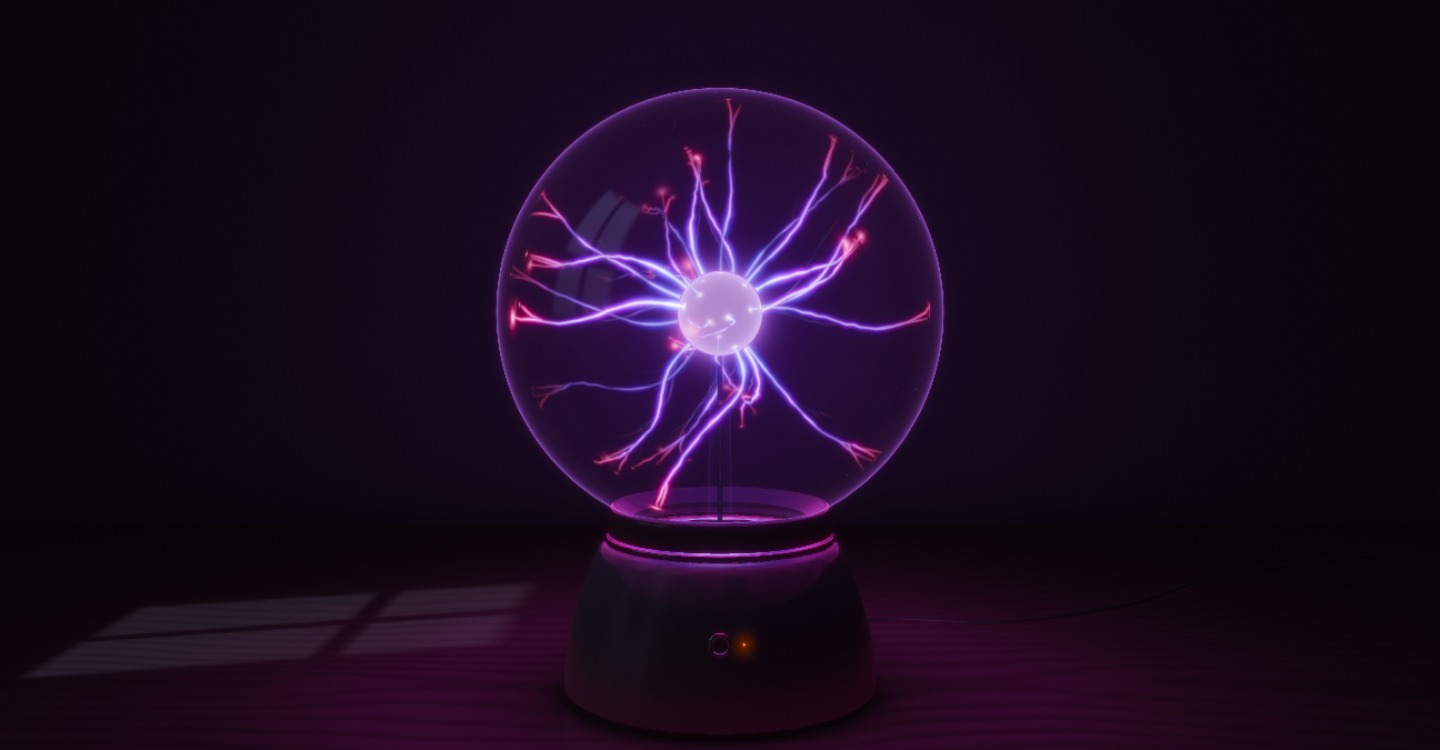
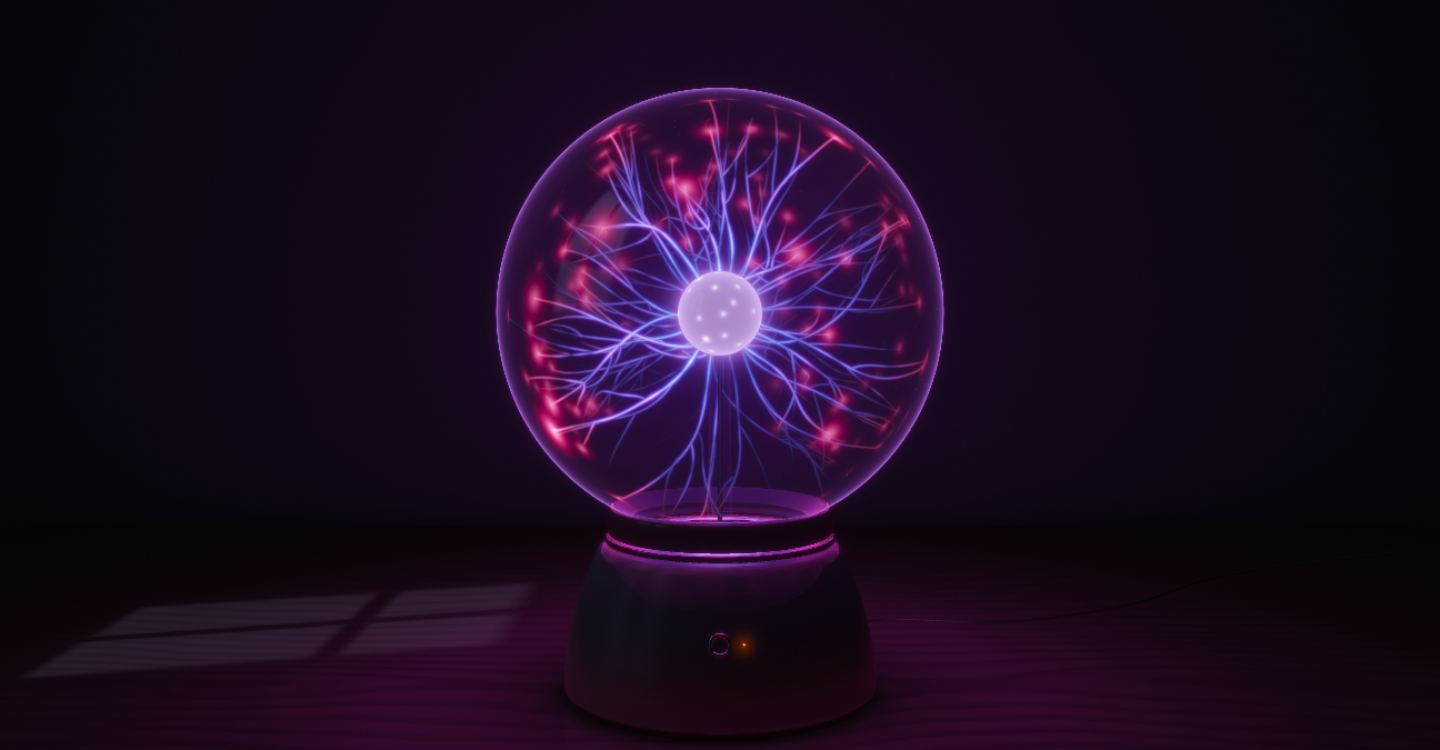
Bring back the original dense streamers in Plasma globe
The fewer, trembling streamers read as less of a plasma lamp than the
original dense web, so this restores the streamer model, the channel
and brush shaders, and the brightness calibration that goes with them.
The electrode, glass, base, desk and room fixes stay.

Changed region(s): [[0.3438, 0.1227, 0.6562, 0.7053]]

diff --git a/scenes/plasmascape/src/plasma.js b/scenes/plasmascape/src/plasma.js
@@ -23,7 +23,7 @@ import { randomGenerator } from '../../shared/random.js';
 export const GLOBE = { outer: 1, inner: 0.955 };
 export const ELECTRODE = { radius: 0.19 };
 export const FINGER = { radius: 0.16, reach: 0.55 };   // fingertip radius, and the gap over which it is felt
-export const STREAMERS = 26;
+export const STREAMERS = 40;
 export const SEGMENT_FLOATS = 12;
 export const MAX_SEGMENTS = 9000;
 export const MAX_FEET = 640;
@@ -36,13 +36,12 @@ const STIFFNESS = 0.74;         // how much of the previous heading a channel ke
 const KINK = 1.05;              // sideways kink strength against the field direction
 const RISE = 0.22;              // buoyancy of the hot channel
 const REPEL = 0.2;              // root repulsion
-const CORE = 0.0095;            // channel radius (gaussian sigma) near the electrode
-const TREMBLE = 0.0055;         // amplitude of the fine, fast tremble of a channel
+const CORE = 0.0072;            // channel radius (gaussian sigma) near the electrode
 const WAVE = 1.5;               // spatial frequency of the kinks, per globe radius
 const SOFTEN = 0.12;            // softening length of the finger's field
 const SINK = 2.4;               // finger charge at contact, relative to the electrode
 const BRANCH_MAX = 4;
-const TENDRILS = 5;
+const TENDRILS = 3;
 const TENDRIL_POINTS = 6;
 
 const clamp = (x, a, b) => Math.min(b, Math.max(a, x));
@@ -128,17 +127,17 @@ export function createPlasma({ random = randomGenerator(1) } = {}) {
     root.set([bx, by, bz], i * 3);
     rootVel.fill(0, i * 3, i * 3 + 3);
     age[i] = 0; span[i] = 1.4 + random() * 3.6; rank[i] = random(); offset[i] = random() * 100;
-    power[i] = 0.2 + 1.3 * Math.pow(random(), 2); reach[i] = 0.3 + 0.7 * random();
-    const n = 1 + Math.floor(random() * 3);
+    power[i] = 0.3 + 1.1 * Math.pow(random(), 1.8); reach[i] = 0.3 + 0.7 * random();
+    const n = 2 + Math.floor(random() * 3);
     branchCount[i] = n;
     for (let b = 0; b < BRANCH_MAX; b++) {
       const at = i * BRANCH_MAX + b;
-      branchAt[at] = 0.72 + random() * 0.18; branchAngle[at] = 0.3 + random() * 0.5;
-      branchTwist[at] = random() * TAU; branchLen[at] = 0.2 + random() * 0.3;
+      branchAt[at] = 0.22 + random() * 0.55; branchAngle[at] = 0.4 + random() * 0.85;
+      branchTwist[at] = random() * TAU; branchLen[at] = 0.3 + random() * 0.5;
     }
     for (let t = 0; t < TENDRILS; t++) {
       const at = i * TENDRILS + t;
-      tendrilAngle[at] = (t + random() * 0.7) * TAU / TENDRILS; tendrilLen[at] = 0.03 + random() * 0.09; tendrilPower[at] = random() < 0.3 ? 0.15 : 0.3 + random() * 0.7;
+      tendrilAngle[at] = (t + random() * 0.7) * TAU / TENDRILS; tendrilLen[at] = 0.04 + random() * 0.14; tendrilPower[at] = random() < 0.3 ? 0.15 : 0.4 + random() * 0.8;
     }
   }
   // Start from an even spread (a Fibonacci lattice, randomly turned) so the pattern is settled at once.
@@ -201,10 +200,10 @@ export function createPlasma({ random = randomGenerator(1) } = {}) {
       main[i] += ((i === state.mainIndex ? 1 : 0) - main[i]) * (1 - Math.exp(-dt / (i === state.mainIndex ? 0.1 : 0.15)));
 
       // Life cycle: fade in, hold, fade out, strike again. A finger takes current from all
-      // channels but those leading to it, so many go out as it closes in and the rest dim.
+      // channels but those leading to it, so most go out as it closes in.
       age[i] += dt;
       const sector = smooth(0.2, 0.85, align);
-      const keep = 1 - 0.6 * Math.pow(near, 0.8) * (1 - 0.35 * sector);
+      const keep = 1 - 0.9 * Math.pow(near, 0.8) * (1 - 0.35 * sector);
       // The channel carrying the finger's current is never let go.
       const carrying = i === state.mainIndex;
       if (carrying) age[i] = Math.min(age[i], span[i] - 0.35);
@@ -241,9 +240,7 @@ export function createPlasma({ random = randomGenerator(1) } = {}) {
       kx += jag * noise(u * 3.1 + seed, v * 3.1 + t * 2, w * 3.1); ky += jag * noise(u * 3.1 + 9.1, v * 3.1 + seed, w * 3.1 - t * 2); kz += jag * noise(u * 3.1 - t * 2, v * 3.1 + 4.4, w * 3.1 + seed);
       const kd = kx * ex + ky * ey + kz * ez;
       kx -= ex * kd; ky -= ey * kd; kz -= ez * kd;
-      // Near the electrode the field is strongest, so a channel leaves it nearly straight.
-      const bend = kink * smooth(ELECTRODE.radius, ELECTRODE.radius + 0.18, r), lift = RISE * (1 - f.near * 0.6) * smooth(ELECTRODE.radius, ELECTRODE.radius + 0.18, r);
-      const tx = ex + bend * kx, ty = ey + bend * ky + lift, tz = ez + bend * kz;
+      const tx = ex + kink * kx, ty = ey + kink * ky + RISE * (1 - f.near * 0.6), tz = ez + kink * kz;
       const tl = Math.hypot(tx, ty, tz) || 1;
       dx = dx * STIFFNESS + tx / tl * (1 - STIFFNESS); dy = dy * STIFFNESS + ty / tl * (1 - STIFFNESS); dz = dz * STIFFNESS + tz / tl * (1 - STIFFNESS);
       const dl = Math.hypot(dx, dy, dz) || 1;
@@ -265,28 +262,10 @@ export function createPlasma({ random = randomGenerator(1) } = {}) {
   let count = 0, footCount = 0;
   // Channel brightness varies along its length in soft beads that drift.
   const bead = (k, phase, steady) => 1 + (0.7 + 0.6 * noise(k * 0.5 + phase, state.time * 2.2, phase) - 1) * (1 - steady);
-  // Its glowing sheath swells and pinches too, more toward the cooler outer end.
-  const swell = (k, u, phase, steady) => (1.45 - 0.85 * u) * (1 + (0.25 + 0.2 * u) * noise(k * 0.31 + phase * 1.7, state.time * 1.6, phase + 11) * (1 - steady));
-  // A live channel never lies still: it trembles finely and fast, more where the field is weak.
-  // The tremble depends only on position, so a branch stays joined to the trunk it leaves.
-  const shaken = new Float32Array(MAX_POINTS * 3);
-  function tremble(pts, n) {
-    const t = state.time * 7;
-    for (let k = 0; k < n; k++) {
-      const a = k * 3, x = pts[a], y = pts[a + 1], z = pts[a + 2];
-      const amp = TREMBLE * smooth(ELECTRODE.radius, 0.6, Math.hypot(x, y, z));
-      const u = x * 34, v = y * 34, w = z * 34;
-      const sx = x + amp * noise(u + t, v, w), sy = y + amp * noise(u, v - t, w + 17), sz = z + amp * noise(u + 41, v, w + t);
-      const fit = Math.min(1, GLOBE.inner / Math.hypot(sx, sy, sz));   // it never leaves the glass
-      shaken[a] = sx * fit; shaken[a + 1] = sy * fit; shaken[a + 2] = sz * fit;
-    }
-    return shaken;
-  }
-  function emit(points, n, strength, width, s0, s1, profile, phase = 0, steady = 0) {
-    const pts = tremble(points, n);
+  function emit(pts, n, strength, width, s0, s1, profile, phase = 0, steady = 0) {
     for (let k = 0; k < n - 1 && count < MAX_SEGMENTS; k++) {
       const u0 = k / (n - 1), u1 = (k + 1) / (n - 1), a = k * 3, b = a + 3;
-      segments.set([pts[a], pts[a + 1], pts[a + 2], width * swell(k, u0, phase, steady), pts[b], pts[b + 1], pts[b + 2], width * swell(k + 1, u1, phase, steady),
+      segments.set([pts[a], pts[a + 1], pts[a + 2], width * (1.45 - 0.85 * u0), pts[b], pts[b + 1], pts[b + 2], width * (1.45 - 0.85 * u1),
         strength * profile(u0) * bead(k, phase, steady), strength * profile(u1) * bead(k + 1, phase, steady), s0 + (s1 - s0) * u0, s0 + (s1 - s0) * u1], count * SEGMENT_FLOATS);
       count++;
     }
@@ -297,7 +276,7 @@ export function createPlasma({ random = randomGenerator(1) } = {}) {
     footCount++;
   }
   const reachesGlass = (pts, n) => Math.hypot(pts[n * 3 - 3], pts[n * 3 - 2], pts[n * 3 - 1]) >= GLOBE.inner - 1e-4;
-  const fadeOut = reach => u => (1.5 - 1.05 * u) * (1 - (1 - reach) * smooth(0.45, 1, u));
+  const fadeOut = reach => u => (1 - 0.35 * u) * (1 - (1 - reach) * smooth(0.45, 1, u));
   const dwindle = u => Math.pow(1 - u, 0.6);
 
   // A side channel leaves `pts` at point k, turned by `angle` about the trunk (twisted by
@@ -319,7 +298,7 @@ export function createPlasma({ random = randomGenerator(1) } = {}) {
     emit(out, m, strength, width, s0, Math.min(1, s0 + 0.45), dwindle, seed);
     if (reachesGlass(out, m)) {
       const e = (m - 1) * 3;
-      addFoot(out[e], out[e + 1], out[e + 2], 0.02, strength * 0.6, out[e] - out[e - 3], out[e + 1] - out[e - 2], out[e + 2] - out[e - 1]);
+      addFoot(out[e], out[e + 1], out[e + 2], 0.05, strength * 0.6, out[e] - out[e - 3], out[e + 1] - out[e - 2], out[e + 2] - out[e - 1]);
     } else if (depth === 0 && m > 8) {
       branch(out, Math.floor(m * 0.5), twist + 2.1, angle * 1.1, length * 0.7, seed + 5.3, strength * 0.6, width * 0.85, s0 + 0.2, share, 1);
     }
@@ -362,14 +341,14 @@ export function createPlasma({ random = randomGenerator(1) } = {}) {
     count = 0; footCount = 0;
     const f = state.finger, near = f.near, { x: cx, y: cy, z: cz } = state.contact;
     // Voltage droop: the finger draws current, so the free channels dim.
-    const droop = 1 - 0.35 * Math.pow(near, 0.9);
+    const droop = 1 - 0.5 * Math.pow(near, 0.9);
     let energy = 0, nearest = -1, nearestGap = Infinity;
 
     for (let i = 0; i < N; i++) {
       pathLength[i] = 0;
       if (level[i] < 0.01) continue;
       const rx = root[i * 3], ry = root[i * 3 + 1], rz = root[i * 3 + 2], pts = paths[i];
-      const n = trace(pts, rx * ELECTRODE.radius, ry * ELECTRODE.radius, rz * ELECTRODE.radius, rx, ry, rz, offset[i], KINK * (1 - 0.85 * near * main[i]), MAX_POINTS, 0.6 - 0.3 * near * main[i]);
+      const n = trace(pts, rx * ELECTRODE.radius, ry * ELECTRODE.radius, rz * ELECTRODE.radius, rx, ry, rz, offset[i], KINK * (1 - 0.6 * near * main[i]), MAX_POINTS, 0.35 + 1.3 * near * main[i]);
       pathLength[i] = n;
       const e = (n - 1) * 3;
       gap[i] = Math.hypot(pts[e] - cx * GLOBE.inner, pts[e + 1] - cy * GLOBE.inner, pts[e + 2] - cz * GLOBE.inner);
@@ -389,11 +368,10 @@ export function createPlasma({ random = randomGenerator(1) } = {}) {
       const strength = level[i] * (power[i] + (1.2 - power[i]) * share) * flick * droop * (1 - 0.92 * captured) * (1 + 5 * share);
       const width = CORE * (1 + 1.8 * share);
       if (share > 0.05) {
-        // The last stretch of the finger's channel closes on the fingertip's landing point, the
-        // pull easing in over a dozen points so the channel curves in rather than kinks.
-        const k0 = Math.max(1, n - 12);
+        // The last stretch of the finger's channel closes on the fingertip's landing point.
+        const k0 = Math.max(1, n - 4);
         for (let k = k0; k < n; k++) {
-          const w = share * Math.pow(smooth(k0 - 1, n - 1, k), 1.5);
+          const w = share * smooth(k0 - 1, n - 1, k);
           pts[k * 3] += (cx * GLOBE.inner - pts[k * 3]) * w; pts[k * 3 + 1] += (cy * GLOBE.inner - pts[k * 3 + 1]) * w; pts[k * 3 + 2] += (cz * GLOBE.inner - pts[k * 3 + 2]) * w;
         }
       }
@@ -409,8 +387,8 @@ export function createPlasma({ random = randomGenerator(1) } = {}) {
       const e = (n - 1) * 3, fx = pts[e], fy = pts[e + 1], fz = pts[e + 2];
       // A landing's glow does not grow with the current: the hot patch is drawn separately at the fingertip.
       const glow = strength / (1 + 5 * share);
-      addFoot(fx, fy, fz, (0.018 + 0.028 * power[i]) * (1 + 0.6 * share), glow * reach[i] * (1 + share), fx - pts[e - 3], fy - pts[e - 2], fz - pts[e - 1]);
-      brush(i, fx, fy, fz, glow * 0.3 * reach[i], CORE * 0.55, share);
+      addFoot(fx, fy, fz, (0.03 + 0.05 * power[i]) * (1 + 0.6 * share), glow * reach[i] * (1 + share), fx - pts[e - 3], fy - pts[e - 2], fz - pts[e - 1]);
+      brush(i, fx, fy, fz, glow * 0.45 * reach[i], CORE * 1.2, share);
     }
     // Where the finger touches, a hot patch on the glass.
     if (near > 0.03) addFoot(cx * GLOBE.inner, cy * GLOBE.inner, cz * GLOBE.inner, 0.05 + 0.05 * near, 3 * Math.pow(near, 2), 0, 1, 0);

diff --git a/scenes/plasmascape/src/shaders.js b/scenes/plasmascape/src/shaders.js
@@ -34,7 +34,7 @@ float noise3(vec3 p) {
 const LAMP = /* glsl */`
 ${NOISE}
 uniform float uEnergy;
-float lampLevel() { return uEnergy * 11.0; }
+float lampLevel() { return uEnergy * 7.5; }
 const vec3 LAMP_TINT = vec3(0.62, 0.22, 1.0);
 const vec3 MOON = vec3(0.30, 0.38, 0.52);
 const vec3 MOON_DIR = vec3(-0.7, 0.68, 0.2);
@@ -137,7 +137,7 @@ void main() {
   vec2 d = p1 - p0;
   float len = length(d);
   d = len > 1e-4 ? d / len : vec2(1.0, 0.0);
-  float ext = 4.5 * max(e0, e1) + 1.5;   // room for the halo, 1.8 sheath widths, to 2.5 of its own
+  float ext = 3.6 * max(e0, e1) + 1.5;
   vec2 pos = mix(p0, p1, aCorner.x) + d * (aCorner.x * 2.0 - 1.0) * ext + vec2(-d.y, d.x) * aCorner.y * ext;
   vA = p0; vB = p1; vSigma = vec2(e0, e1);
   float gain = uGhost > 0.5 ? 0.12 : 1.0;
@@ -166,10 +166,8 @@ void main() {
   float sheath = exp(-0.5 * d2 / (sigma * sigma));
   float sc = clamp(0.3 * sigma, 0.7, uCoreMax);
   float core = exp(-0.5 * d2 / (sc * sc));
-  vec3 hot = mix(vec3(0.5, 0.52, 1.0), vec3(1.0, 0.45, 0.68), smoothstep(0.7, 1.0, s));
-  // Around both, a faint wide halo of gas excited by the channel's ultraviolet.
-  float halo = exp(-0.5 * d2 / (3.24 * sigma * sigma));
-  vec3 light = spectrum(s) * (0.6 * i * sheath + 0.07 * i * halo) + hot * (1.25 * i * core);
+  vec3 hot = mix(vec3(0.30, 0.42, 1.0), vec3(1.0, 0.40, 0.60), smoothstep(0.7, 1.0, s));
+  vec3 light = spectrum(s) * (0.42 * i * sheath) + hot * (0.9 * i * core);
   // A channel carrying a finger's current is hot enough to burn white.
   light += vec3(1.0, 0.9, 1.0) * smoothstep(1.0, 2.6, i) * core * 1.3;
   gl_FragColor = vec4(light, 1.0);
@@ -213,7 +211,7 @@ void main() {
   float halo = exp(-r2 * 1.4);
   float hot = exp(-r2 * 6.0);
   vec3 white = vec3(1.0, 0.75, 0.9);
-  vec3 light = vec3(1.0, 0.14, 0.28) * halo * 0.16 + mix(vec3(1.0, 0.5, 0.7), white, smoothstep(1.2, 2.6, vStrength)) * hot * 0.5;
+  vec3 light = vec3(1.0, 0.14, 0.28) * halo * 0.3 + mix(vec3(1.0, 0.5, 0.7), white, smoothstep(1.2, 2.6, vStrength)) * hot * 0.3;
   light += white * pow(hot, 2.0) * smoothstep(1.2, 2.6, vStrength) * 1.5;
   gl_FragColor = vec4(light * vStrength, 1.0);
 }

diff --git a/scenes/plasmascape/src/render.js b/scenes/plasmascape/src/render.js
@@ -12,7 +12,7 @@ export const HOME = { fov: 30, height: 0.2, target: new V3(0, -0.28, 0), halfHei
 export const TABLE_Y = -1.75;
 const WALL_Z = -4.2;
 const LEVELS = 6;                                  // bloom pyramid depth
-const BLOOM = { weights: [0.6, 0.4, 0.2, 0.08, 0.04], gain: 0.34, halo: new V3(1.0, 0.5, 0.8), exposure: 1.0 };
+const BLOOM = { weights: [0.6, 0.4, 0.2, 0.08, 0.04], gain: 0.28, halo: new V3(1.0, 0.5, 0.8), exposure: 1.0 };
 const LENS = { blur: 0.022, core: 0.0016 };                      // circle of confusion at unit relative defocus, as a share of the frame height
 const EXPOSURE = 1.0;
 
